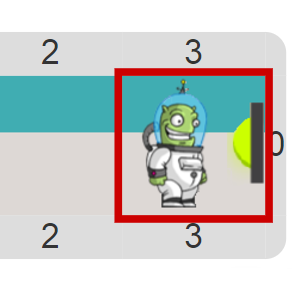
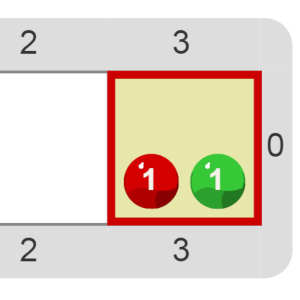
Completado 2.2

diff --git a/Proyectos/2.Procedimientos/2.2.Armamos 'El alien toca botón'/description.md b/Proyectos/2.Procedimientos/2.2.Armamos 'El alien toca botón'/description.md
@@ -21,8 +21,11 @@ para que todo funcione. La representación es así:
 El tablero inicial de la actividad anterior, pero sin la vestimenta, es así:
 
 <center>
-![Tablero inicial]()
[1 lines of base64/hex data omitted]
 </center>
+
+¿Qué vas a ver cuando actives la vestimenta? Tratá de pensarlo antes de hacerlo, para ver si estás
+entendiendo cómo es la representación.
 
 Completá los procedimientos que están comenzandos para que el programa de esta actividad funcione igual que el 
 de la actividad anterior. ¡No te olvides de activar la vestimenta!
